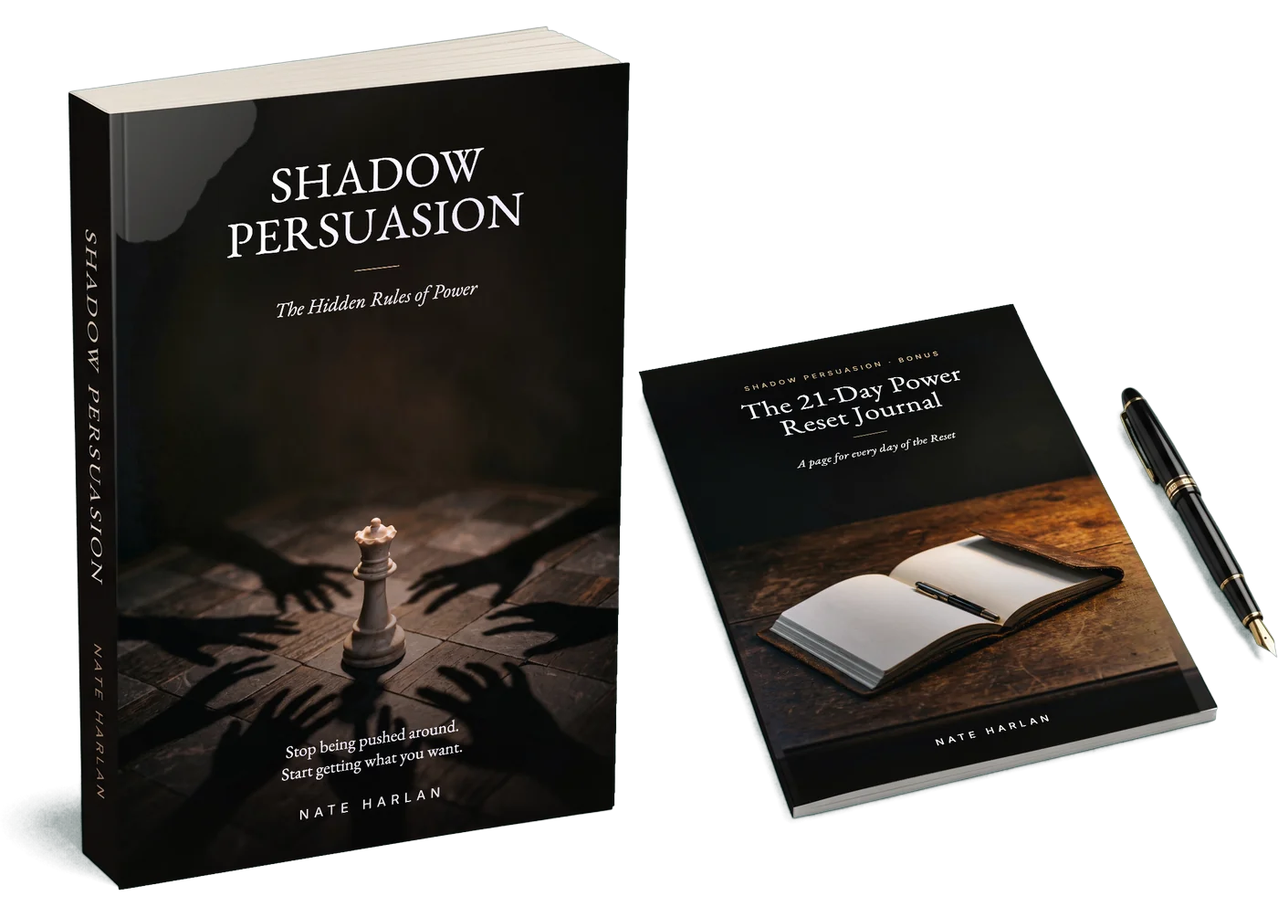
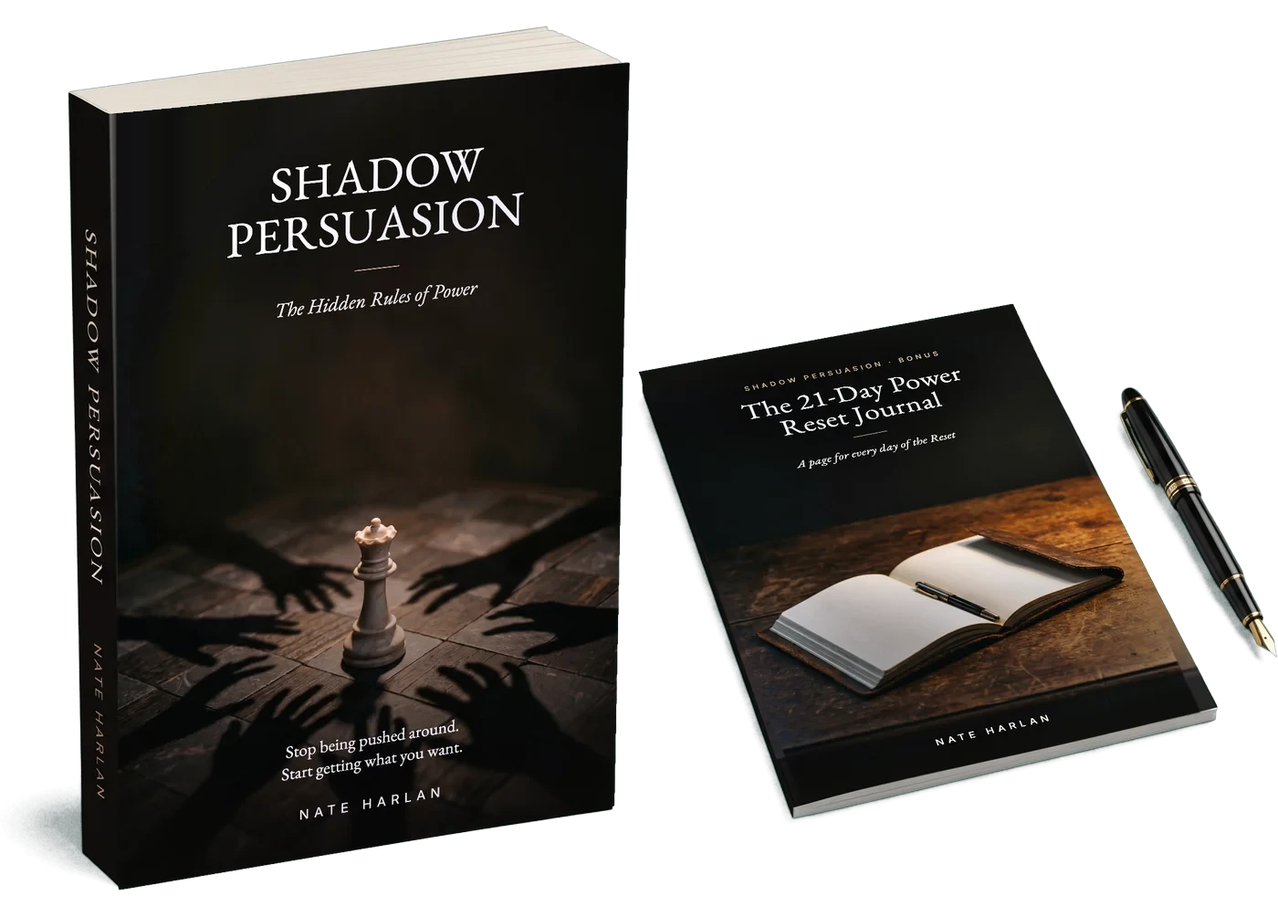
Fix book photo glitches, digital upsell at $27, update email offer details
- Remove the grey glare blob on the book's top corner (bundle-hero, bundle-cutout, hero-cutout) and the stray spine strip on hero-opt-night
- Upsell: new tablet/phone picture of the 121-page PDF, says it's a digital download, price $27
- Free-chapter emails: refund terms (30 days from delivery, return the book), app never renews on its own, hardcover price, not on Amazon

Changed region(s): [[0.0921, 0.0926, 0.215, 0.2779]]

diff --git a/lib/sp2/emails-v3.generated.ts b/lib/sp2/emails-v3.generated.ts
@@ -41,8 +41,8 @@ export const SP2_EMAILS_V3: Sp2Email[] = [
     "day": 5,
     "subject": "What's in the book, and in what order",
     "preview": "Defense first, then influence, then practice.",
-    "html": "<p>Hi {{first_name}},</p>\n<p>In this book, \u201cpower\u201d means having a say in what happens to you. A say in how your time is spent, how you\u2019re spoken to, and what you agree to.</p>\n<p>The book goes in this order, on purpose:</p>\n<ol type=\"1\">\n<li><strong>See where your power goes.</strong> Who really decides, the rules you never chose, the voice that keeps you stuck.</li>\n<li><strong>Stop unfair pressure.</strong> Guilt and hidden debts, stories that keep changing, silence used as pressure, charm and urgency, and how to tell when pressure has become danger.</li>\n<li><strong>Build real influence.</strong> Why people push back, listening, questions, making your case, and how to ask for more.</li>\n<li><strong>Power beyond the conversation.</strong> Alternatives, credibility, allies, and making agreements stick.</li>\n<li><strong>Put it to work.</strong> Work and pay, money decisions, partners and exes, family, groups.</li>\n<li><strong>Keep it useful.</strong> What to do when they still say no, starting again, and how to stay fair.</li>\n<li><strong>The 21-Day Power Reset.</strong> Small daily practices, a few minutes each.</li>\n</ol>\n<p>Every technique in it is one you could explain openly to the person affected.</p>\n<p>It\u2019s $67 for the paperback, shipped free in the US, with the digital edition, The 21-Day Power Reset Journal and three bonuses included, so you can start right away. Plus 60 days of the companion app, and a 30-day money-back guarantee.</p>\n<p><a href=\"{{book_link}}\">Get the full book</a></p>\n<p>Nate</p>",
-    "text": "Hi {{first_name}},\n\nIn this book, \"power\" means having a say in what happens to you. A say in how your time is spent, how you're spoken to, and what you agree to.\n\nThe book goes in this order, on purpose:\n\n1. See where your power goes. Who really decides, the rules you never chose, the voice that keeps you stuck.\n2. Stop unfair pressure. Guilt and hidden debts, stories that keep changing, silence used as pressure, charm and urgency, and how to tell when pressure has become danger.\n3. Build real influence. Why people push back, listening, questions, making your case, and how to ask for more.\n4. Power beyond the conversation. Alternatives, credibility, allies, and making agreements stick.\n5. Put it to work. Work and pay, money decisions, partners and exes, family, groups.\n6. Keep it useful. What to do when they still say no, starting again, and how to stay fair.\n7. The 21-Day Power Reset. Small daily practices, a few minutes each.\n\nEvery technique in it is one you could explain openly to the person affected.\n\nIt's $67 for the paperback, shipped free in the US, with the digital edition, The 21-Day Power Reset Journal and three bonuses included, so you can start right away. Plus 60 days of the companion app, and a 30-day money-back guarantee.\n\nGet the full book: {{book_link}}\n\nNate"
+    "html": "<p>Hi {{first_name}},</p>\n<p>In this book, \u201cpower\u201d means having a say in what happens to you. A say in how your time is spent, how you\u2019re spoken to, and what you agree to.</p>\n<p>The book goes in this order, on purpose:</p>\n<ol type=\"1\">\n<li><strong>See where your power goes.</strong> Who really decides, the rules you never chose, the voice that keeps you stuck.</li>\n<li><strong>Stop unfair pressure.</strong> Guilt and hidden debts, stories that keep changing, silence used as pressure, charm and urgency, and how to tell when pressure has become danger.</li>\n<li><strong>Build real influence.</strong> Why people push back, listening, questions, making your case, and how to ask for more.</li>\n<li><strong>Power beyond the conversation.</strong> Alternatives, credibility, allies, and making agreements stick.</li>\n<li><strong>Put it to work.</strong> Work and pay, money decisions, partners and exes, family, groups.</li>\n<li><strong>Keep it useful.</strong> What to do when they still say no, starting again, and how to stay fair.</li>\n<li><strong>The 21-Day Power Reset.</strong> Small daily practices, a few minutes each.</li>\n</ol>\n<p>Every technique in it is one you could explain openly to the person affected.</p>\n<p>It\u2019s $67 for the paperback, shipped free in the US, with the digital edition, The 21-Day Power Reset Journal and three bonuses included, so you can start right away. Plus 60 days of the companion app. If it isn\u2019t for you, you have 30 days from delivery to return the book for a full refund.</p>\n<p><a href=\"{{book_link}}\">Get the full book</a></p>\n<p>Nate</p>",
+    "text": "Hi {{first_name}},\n\nIn this book, \"power\" means having a say in what happens to you. A say in how your time is spent, how you're spoken to, and what you agree to.\n\nThe book goes in this order, on purpose:\n\n1. See where your power goes. Who really decides, the rules you never chose, the voice that keeps you stuck.\n2. Stop unfair pressure. Guilt and hidden debts, stories that keep changing, silence used as pressure, charm and urgency, and how to tell when pressure has become danger.\n3. Build real influence. Why people push back, listening, questions, making your case, and how to ask for more.\n4. Power beyond the conversation. Alternatives, credibility, allies, and making agreements stick.\n5. Put it to work. Work and pay, money decisions, partners and exes, family, groups.\n6. Keep it useful. What to do when they still say no, starting again, and how to stay fair.\n7. The 21-Day Power Reset. Small daily practices, a few minutes each.\n\nEvery technique in it is one you could explain openly to the person affected.\n\nIt's $67 for the paperback, shipped free in the US, with the digital edition, The 21-Day Power Reset Journal and three bonuses included, so you can start right away. Plus 60 days of the companion app. If it isn't for you, you have 30 days from delivery to return the book for a full refund.\n\nGet the full book: {{book_link}}\n\nNate"
   },
   {
     "number": 6,
@@ -73,8 +73,8 @@ export const SP2_EMAILS_V3: Sp2Email[] = [
     "day": 14,
     "subject": "Paste their message here",
     "preview": "See what's happening, get a calm reply.",
-    "html": "<p>Hi {{first_name}},</p>\n<p>Sometimes the hardest part is just seeing what\u2019s happening. A message arrives and you feel guilty, or rushed, or confused, and you can\u2019t say why.</p>\n<p>That\u2019s what the companion app is for. It comes with the book.</p>\n<p>You paste in a message, or a screenshot of a conversation, and it tells you plainly whether there\u2019s pressure in it (sometimes there isn\u2019t), how it\u2019s meant to make you feel, and a few calm replies you could send. It can also help you plan a hard conversation, practice it out loud, and work through the 21-Day Power Reset one day at a time.</p>\n<p>It\u2019s not therapy, and it won\u2019t tell you what someone is thinking. It helps you slow down and choose your answer.</p>\n<p>Your purchase includes 60 days of the app. After that it\u2019s $9.99 a month if you want to keep it, and you can cancel anytime.</p>\n<p><a href=\"{{book_link}}\">Get the book and the app</a></p>\n<p>Nate</p>",
-    "text": "Hi {{first_name}},\n\nSometimes the hardest part is just seeing what's happening. A message arrives and you feel guilty, or rushed, or confused, and you can't say why.\n\nThat's what the companion app is for. It comes with the book.\n\nYou paste in a message, or a screenshot of a conversation, and it tells you plainly whether there's pressure in it (sometimes there isn't), how it's meant to make you feel, and a few calm replies you could send. It can also help you plan a hard conversation, practice it out loud, and work through the 21-Day Power Reset one day at a time.\n\nIt's not therapy, and it won't tell you what someone is thinking. It helps you slow down and choose your answer.\n\nYour purchase includes 60 days of the app. After that it's $9.99 a month if you want to keep it, and you can cancel anytime.\n\nGet the book and the app: {{book_link}}\n\nNate"
+    "html": "<p>Hi {{first_name}},</p>\n<p>Sometimes the hardest part is just seeing what\u2019s happening. A message arrives and you feel guilty, or rushed, or confused, and you can\u2019t say why.</p>\n<p>That\u2019s what the companion app is for. It comes with the book.</p>\n<p>You paste in a message, or a screenshot of a conversation, and it tells you plainly whether there\u2019s pressure in it (sometimes there isn\u2019t), how it\u2019s meant to make you feel, and a few calm replies you could send. It can also help you plan a hard conversation, practice it out loud, and work through the 21-Day Power Reset one day at a time.</p>\n<p>It\u2019s not therapy, and it won\u2019t tell you what someone is thinking. It helps you slow down and choose your answer.</p>\n<p>Your purchase includes 60 days of the app. It never renews on its own. If you want to keep it after that, it\u2019s $9.99 a month, and only if you choose it.</p>\n<p><a href=\"{{book_link}}\">Get the book and the app</a></p>\n<p>Nate</p>",
+    "text": "Hi {{first_name}},\n\nSometimes the hardest part is just seeing what's happening. A message arrives and you feel guilty, or rushed, or confused, and you can't say why.\n\nThat's what the companion app is for. It comes with the book.\n\nYou paste in a message, or a screenshot of a conversation, and it tells you plainly whether there's pressure in it (sometimes there isn't), how it's meant to make you feel, and a few calm replies you could send. It can also help you plan a hard conversation, practice it out loud, and work through the 21-Day Power Reset one day at a time.\n\nIt's not therapy, and it won't tell you what someone is thinking. It helps you slow down and choose your answer.\n\nYour purchase includes 60 days of the app. It never renews on its own. If you want to keep it after that, it's $9.99 a month, and only if you choose it.\n\nGet the book and the app: {{book_link}}\n\nNate"
   },
   {
     "number": 10,
@@ -89,8 +89,8 @@ export const SP2_EMAILS_V3: Sp2Email[] = [
     "day": 20,
     "subject": "About the price",
     "preview": "Straight answer.",
-    "html": "<p>Hi {{first_name}},</p>\n<p>The paperback is $67, shipped free in the US. That\u2019s more than most books, so here\u2019s what\u2019s included.</p>\n<p>The paperback, plus the digital edition so you can start today. The 21-Day Power Reset Journal, with a page for every day. Three bonuses: The Tactic Spotter (common pressure moves and one calm reply for each), The Conversation Planner (prepare one hard conversation, start to finish) and The Power Map and Decision Cards (the book\u2019s eight tools, one card each). And 60 days of the companion app.</p>\n<p>The price is also a small commitment, on purpose. A cheap book is easy to buy and never open. This one is meant to be used.</p>\n<p>And there\u2019s a plain 30-day money-back guarantee. If it isn\u2019t useful, email me and you\u2019ll get a refund.</p>\n<p>If you\u2019re not ready, that\u2019s fine too. You\u2019ll keep getting these notes.</p>\n<p><a href=\"{{book_link}}\">Get the full book</a></p>\n<p>Nate</p>",
-    "text": "Hi {{first_name}},\n\nThe paperback is $67, shipped free in the US. That's more than most books, so here's what's included.\n\nThe paperback, plus the digital edition so you can start today. The 21-Day Power Reset Journal, with a page for every day. Three bonuses: The Tactic Spotter (common pressure moves and one calm reply for each), The Conversation Planner (prepare one hard conversation, start to finish) and The Power Map and Decision Cards (the book's eight tools, one card each). And 60 days of the companion app.\n\nThe price is also a small commitment, on purpose. A cheap book is easy to buy and never open. This one is meant to be used.\n\nAnd there's a plain 30-day money-back guarantee. If it isn't useful, email me and you'll get a refund.\n\nIf you're not ready, that's fine too. You'll keep getting these notes.\n\nGet the full book: {{book_link}}\n\nNate"
+    "html": "<p>Hi {{first_name}},</p>\n<p>The paperback is $67, shipped free in the US (or $97 for the hardcover, same book and extras). That\u2019s more than most books, so here\u2019s what\u2019s included.</p>\n<p>The paperback, plus the digital edition so you can start today. The 21-Day Power Reset Journal, with a page for every day. Three bonuses: The Tactic Spotter (common pressure moves and one calm reply for each), The Conversation Planner (prepare one hard conversation, start to finish) and The Power Map and Decision Cards (the book\u2019s eight tools, one card each). And 60 days of the companion app.</p>\n<p>The price is also a small commitment, on purpose. A cheap book is easy to buy and never open. This one is meant to be used.</p>\n<p>And there\u2019s a plain guarantee. If it isn\u2019t useful, email me within 30 days of delivery and send the book back for a full refund.</p>\n<p>One more thing: it\u2019s only sold on our site, not on Amazon.</p>\n<p>If you\u2019re not ready, that\u2019s fine too. You\u2019ll keep getting these notes.</p>\n<p><a href=\"{{book_link}}\">Get the full book</a></p>\n<p>Nate</p>",
+    "text": "Hi {{first_name}},\n\nThe paperback is $67, shipped free in the US (or $97 for the hardcover, same book and extras). That's more than most books, so here's what's included.\n\nThe paperback, plus the digital edition so you can start today. The 21-Day Power Reset Journal, with a page for every day. Three bonuses: The Tactic Spotter (common pressure moves and one calm reply for each), The Conversation Planner (prepare one hard conversation, start to finish) and The Power Map and Decision Cards (the book's eight tools, one card each). And 60 days of the companion app.\n\nThe price is also a small commitment, on purpose. A cheap book is easy to buy and never open. This one is meant to be used.\n\nAnd there's a plain guarantee. If it isn't useful, email me within 30 days of delivery and send the book back for a full refund.\n\nOne more thing: it's only sold on our site, not on Amazon.\n\nIf you're not ready, that's fine too. You'll keep getting these notes.\n\nGet the full book: {{book_link}}\n\nNate"
   },
   {
     "number": 12,
@@ -161,7 +161,7 @@ export const SP2_EMAILS_V3: Sp2Email[] = [
     "day": 60,
     "subject": "The last email in this series",
     "preview": "Thanks for reading.",
-    "html": "<p>Hi {{first_name}},</p>\n<p>This is the last email in this series. After today you\u2019ll only hear from me occasionally.</p>\n<p>Over the past two months I\u2019ve sent you a handful of ideas: the pause before yes, duty versus favor, not arguing about the past, letting silence be someone else\u2019s choice, the Clean Ask, a plan for no, and a line between influence and manipulation.</p>\n<p>If even one of them has been useful, the book goes much further. It has the full 21-Day Power Reset with its journal, the eight tools, chapters for work, money, partners, exes and family, three bonuses, and 60 days of the companion app. It\u2019s $67 for the paperback, shipped free in the US, with everything digital included and a 30-day money-back guarantee.</p>\n<p>There\u2019s no deadline and no special offer. It\u2019ll be there whenever you\u2019re ready.</p>\n<p>Whatever you decide, here\u2019s the one idea I\u2019d keep: power means having a say in what happens to you. You can have more of it without becoming someone you don\u2019t like.</p>\n<p><a href=\"{{book_link}}\">Get the full book</a></p>\n<p>Thanks for reading, Nate</p>",
-    "text": "Hi {{first_name}},\n\nThis is the last email in this series. After today you'll only hear from me occasionally.\n\nOver the past two months I've sent you a handful of ideas: the pause before yes, duty versus favor, not arguing about the past, letting silence be someone else's choice, the Clean Ask, a plan for no, and a line between influence and manipulation.\n\nIf even one of them has been useful, the book goes much further. It has the full 21-Day Power Reset with its journal, the eight tools, chapters for work, money, partners, exes and family, three bonuses, and 60 days of the companion app. It's $67 for the paperback, shipped free in the US, with everything digital included and a 30-day money-back guarantee.\n\nThere's no deadline and no special offer. It'll be there whenever you're ready.\n\nWhatever you decide, here's the one idea I'd keep: power means having a say in what happens to you. You can have more of it without becoming someone you don't like.\n\nGet the full book: {{book_link}}\n\nThanks for reading,\nNate"
+    "html": "<p>Hi {{first_name}},</p>\n<p>This is the last email in this series. After today you\u2019ll only hear from me occasionally.</p>\n<p>Over the past two months I\u2019ve sent you a handful of ideas: the pause before yes, duty versus favor, not arguing about the past, letting silence be someone else\u2019s choice, the Clean Ask, a plan for no, and a line between influence and manipulation.</p>\n<p>If even one of them has been useful, the book goes much further. It has the full 21-Day Power Reset with its journal, the eight tools, chapters for work, money, partners, exes and family, three bonuses, and 60 days of the companion app. It\u2019s $67 for the paperback, shipped free in the US, with everything digital included, and 30 days from delivery to return the book for a full refund.</p>\n<p>There\u2019s no deadline and no special offer. It\u2019ll be there whenever you\u2019re ready.</p>\n<p>Whatever you decide, here\u2019s the one idea I\u2019d keep: power means having a say in what happens to you. You can have more of it without becoming someone you don\u2019t like.</p>\n<p><a href=\"{{book_link}}\">Get the full book</a></p>\n<p>Thanks for reading, Nate</p>",
+    "text": "Hi {{first_name}},\n\nThis is the last email in this series. After today you'll only hear from me occasionally.\n\nOver the past two months I've sent you a handful of ideas: the pause before yes, duty versus favor, not arguing about the past, letting silence be someone else's choice, the Clean Ask, a plan for no, and a line between influence and manipulation.\n\nIf even one of them has been useful, the book goes much further. It has the full 21-Day Power Reset with its journal, the eight tools, chapters for work, money, partners, exes and family, three bonuses, and 60 days of the companion app. It's $67 for the paperback, shipped free in the US, with everything digital included, and 30 days from delivery to return the book for a full refund.\n\nThere's no deadline and no special offer. It'll be there whenever you're ready.\n\nWhatever you decide, here's the one idea I'd keep: power means having a say in what happens to you. You can have more of it without becoming someone you don't like.\n\nGet the full book: {{book_link}}\n\nThanks for reading,\nNate"
   }
 ];

diff --git a/app/(sales)/upsell/page.tsx b/app/(sales)/upsell/page.tsx
@@ -1,6 +1,6 @@
 'use client';
 
-// The $47 one-click upsell: The Applied Power Playbook Library (lib/sp2/config.ts, sp2_upsell).
+// The $27 one-click upsell: The Applied Power Playbook Library (lib/sp2/config.ts, sp2_upsell).
 
 import { Suspense, useState } from 'react';
 import { useRouter, useSearchParams } from 'next/navigation';
@@ -77,10 +77,11 @@ function UpsellOffer() {
         </p>
 
         {/* eslint-disable-next-line @next/next/no-img-element */}
-        <img src="/v2/img/upsell-pack.jpg" alt="The Applied Power Playbook Library" className="w-full rounded-xl shadow-2xl mb-6 md:mb-10" />
+        <img src="/v2/img/upsell-digital.jpg" alt="The Applied Power Playbook Library, a 121-page PDF, on a tablet and a phone" className="w-full rounded-xl shadow-2xl mb-4" />
+        <p className="sp2-ui text-[17px] text-[color:var(--sp2-muted)] mb-6 md:mb-10">Digital download: a 121-page PDF, emailed to you with your book. Read it on your phone, tablet or computer, or print the worksheets.</p>
         <div className="md:hidden mb-10 text-center">
           <button className="sp2-btn  w-full !py-4" disabled={busy || !pi} onClick={accept}>
-            {busy ? 'Adding...' : 'Yes, add it for $47'}
+            {busy ? 'Adding...' : 'Yes, add it for $27'}
           </button>
           <p className="sp2-ui text-[16px] text-[color:var(--sp2-muted)] mt-2">One click, on the card you just used. Details below.</p>
         </div>
@@ -108,10 +109,10 @@ function UpsellOffer() {
 
         <div className="rounded-xl border-2 border-[color:var(--sp2-ink)] bg-white p-6 sm:p-8 text-center shadow-[0_30px_60px_-40px_rgba(0,0,0,0.5)]">
           <p className="text-[22px] sm:text-[26px] font-semibold leading-snug">
-            Add The Applied Power Playbook Library for <span className="text-[color:var(--sp2-accent)]">$47</span>
+            Add The Applied Power Playbook Library for <span className="text-[color:var(--sp2-accent)]">$27</span>
           </p>
           <p className="sp2-ui text-[17px] text-[color:var(--sp2-muted)] mt-2 mb-6">
-            One click. It goes on the card you just used, so there is nothing to type. Emailed with your book.
+            One click. It goes on the card you just used, so there is nothing to type. A 121-page PDF, emailed with your book.
           </p>
           {error && <p className="sp2-ui text-[16px] text-[color:var(--sp2-oxblood)] mb-4">{error}</p>}
           <button className="sp2-btn  w-full sm:w-auto sm:min-w-[360px] !py-5 !text-[18px]" disabled={busy || !pi} onClick={accept}>

diff --git a/lib/sp2/config.ts b/lib/sp2/config.ts
@@ -99,7 +99,7 @@ export const SP2_PRODUCTS: Record<Sp2Slug, { name: string; description: string; 
   sp2_upsell: {
     name: 'The Applied Power Playbook Library',
     description: '20 playbooks in four sections (work and pay, clients and money, relationships and family, endings and transitions), each taking one situation from preparation to follow-up.',
-    priceCents: 4700,
+    priceCents: 2700,
     downloads: sp2Downloads('sp2_upsell'),
   },
 };

diff --git a/app/api/v2/upsell/route.ts b/app/api/v2/upsell/route.ts
@@ -2,7 +2,7 @@
  * POST /api/upsell
  *
  * One-click upsell for the v2 funnel: charges the card saved at checkout for
- * The Applied Power Playbook Library ($47), then delivers it (lib/sp2/fulfill.ts).
+ * The Applied Power Playbook Library ($27), then delivers it (lib/sp2/fulfill.ts).
  * Replaces the old Playbooks + Vault upsell for v2 buyers.
  *
  * Body: { paymentIntentId }  (the original book payment)

diff --git a/funnel-v2/emails/free-chapter-sequence-v3.md b/funnel-v2/emails/free-chapter-sequence-v3.md
@@ -6,9 +6,9 @@
 
 **From:** Nate Harlan
 
-**Assumes:** the free chapter is Chapter 4, "The Voice That Keeps You Stuck" (it opens with the 3 a.m. replay), served at /v2/chapter-1. If the funnel gives away a different chapter, change Emails 1 and 2.
+**Assumes:** the free chapter is Chapter 4, "The Voice That Keeps You Stuck" (it opens with the 3 a.m. replay), served at /read. If the funnel gives away a different chapter, change Emails 1 and 2.
 
-**Offer facts used (check before launch):** paperback $67 with US shipping included; the digital edition; The 21-Day Power Reset Journal; three bonuses (The Tactic Spotter, The Conversation Planner, The Power Map and Decision Cards); 60 days of the companion app, then $9.99 a month if you keep it, cancel anytime; 30-day money-back guarantee.
+**Offer facts used (check before launch):** paperback $67 with US shipping included; the digital edition; The 21-Day Power Reset Journal; three bonuses (The Tactic Spotter, The Conversation Planner, The Power Map and Decision Cards); hardcover $97 (same book and extras); 60 days of the companion app, never renewed automatically, $9.99 a month only if you choose to keep it; 30 days from delivery to return the book for a full refund; not available on Amazon.
 
 **Placeholders:** `{{first_name}}` (fallback: "there"), `{{chapter_link}}`, `{{book_link}}`. The unsubscribe link is added by the email system.
 
@@ -154,7 +154,7 @@ The book goes in this order, on purpose:
 
 Every technique in it is one you could explain openly to the person affected.
 
-It's $67 for the paperback, shipped free in the US, with the digital edition, The 21-Day Power Reset Journal and three bonuses included, so you can start right away. Plus 60 days of the companion app, and a 30-day money-back guarantee.
+It's $67 for the paperback, shipped free in the US, with the digital edition, The 21-Day Power Reset Journal and three bonuses included, so you can start right away. Plus 60 days of the companion app. If it isn't for you, you have 30 days from delivery to return the book for a full refund.
 
 [Get the full book]({{book_link}})
 
@@ -248,7 +248,7 @@ You paste in a message, or a screenshot of a conversation, and it tells you plai
 
 It's not therapy, and it won't tell you what someone is thinking. It helps you slow down and choose your answer.
 
-Your purchase includes 60 days of the app. After that it's $9.99 a month if you want to keep it, and you can cancel anytime.
+Your purchase includes 60 days of the app. It never renews on its own. If you want to keep it after that, it's $9.99 a month, and only if you choose it.
 
 [Get the book and the app]({{book_link}})
 
@@ -286,13 +286,15 @@ Nate
 
 Hi {{first_name}},
 
-The paperback is $67, shipped free in the US. That's more than most books, so here's what's included.
+The paperback is $67, shipped free in the US (or $97 for the hardcover, same book and extras). That's more than most books, so here's what's included.
 
 The paperback, plus the digital edition so you can start today. The 21-Day Power Reset Journal, with a page for every day. Three bonuses: The Tactic Spotter (common pressure moves and one calm reply for each), The Conversation Planner (prepare one hard conversation, start to finish) and The Power Map and Decision Cards (the book's eight tools, one card each). And 60 days of the companion app.
 
 The price is also a small commitment, on purpose. A cheap book is easy to buy and never open. This one is meant to be used.
 
-And there's a plain 30-day money-back guarantee. If it isn't useful, email me and you'll get a refund.
+And there's a plain guarantee. If it isn't useful, email me within 30 days of delivery and send the book back for a full refund.
+
+One more thing: it's only sold on our site, not on Amazon.
 
 If you're not ready, that's fine too. You'll keep getting these notes.
 
@@ -510,7 +512,7 @@ This is the last email in this series. After today you'll only hear from me occa
 
 Over the past two months I've sent you a handful of ideas: the pause before yes, duty versus favor, not arguing about the past, letting silence be someone else's choice, the Clean Ask, a plan for no, and a line between influence and manipulation.
 
-If even one of them has been useful, the book goes much further. It has the full 21-Day Power Reset with its journal, the eight tools, chapters for work, money, partners, exes and family, three bonuses, and 60 days of the companion app. It's $67 for the paperback, shipped free in the US, with everything digital included and a 30-day money-back guarantee.
+If even one of them has been useful, the book goes much further. It has the full 21-Day Power Reset with its journal, the eight tools, chapters for work, money, partners, exes and family, three bonuses, and 60 days of the companion app. It's $67 for the paperback, shipped free in the US, with everything digital included, and 30 days from delivery to return the book for a full refund.
 
 There's no deadline and no special offer. It'll be there whenever you're ready.
 
